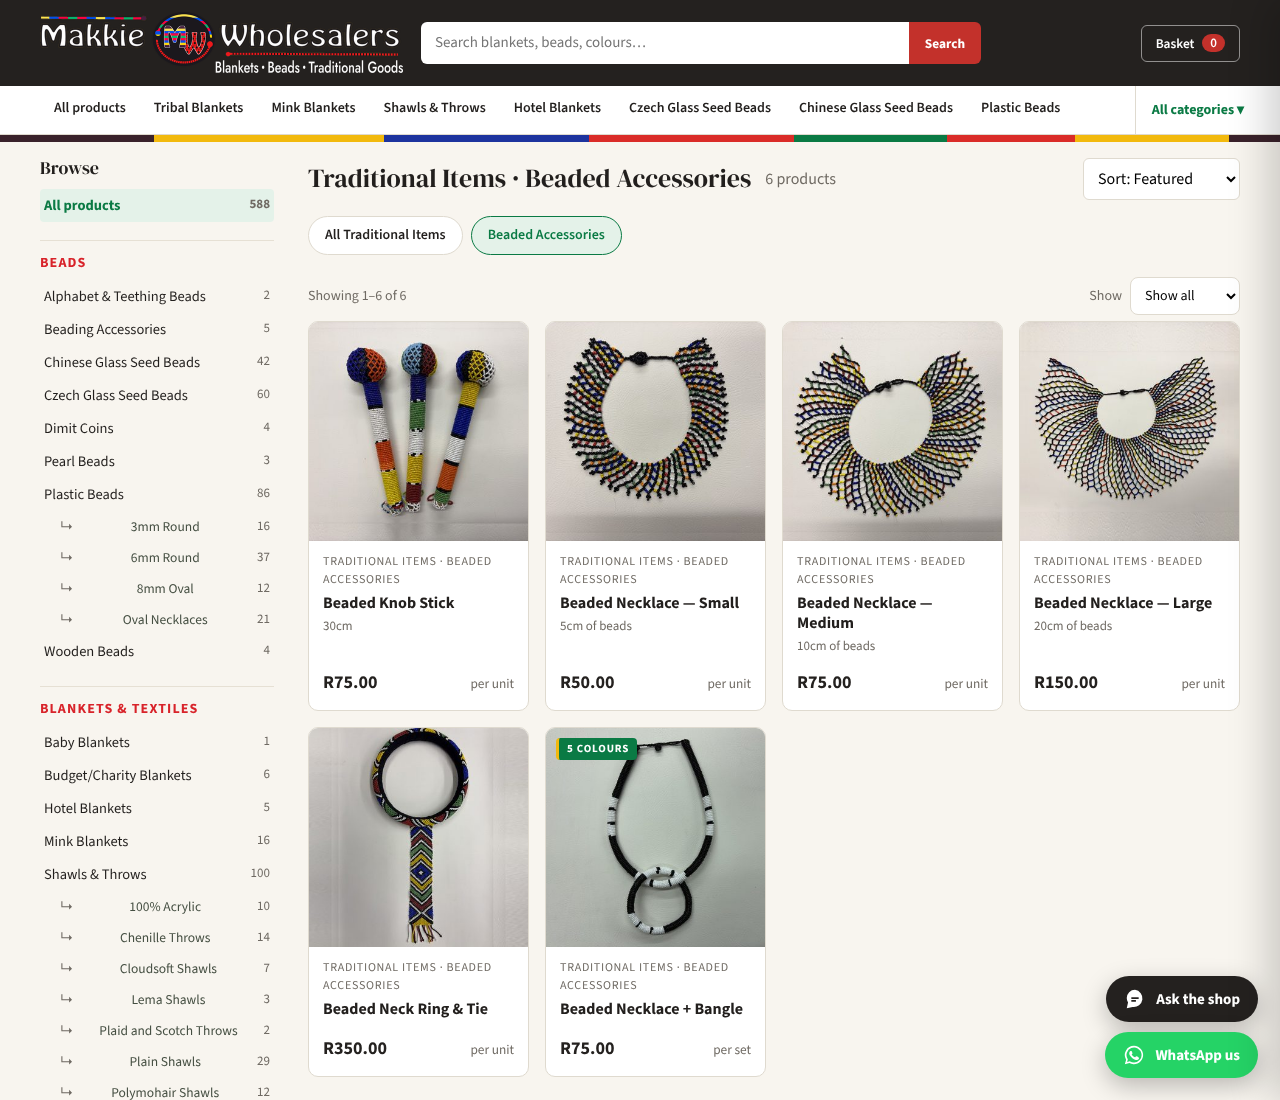
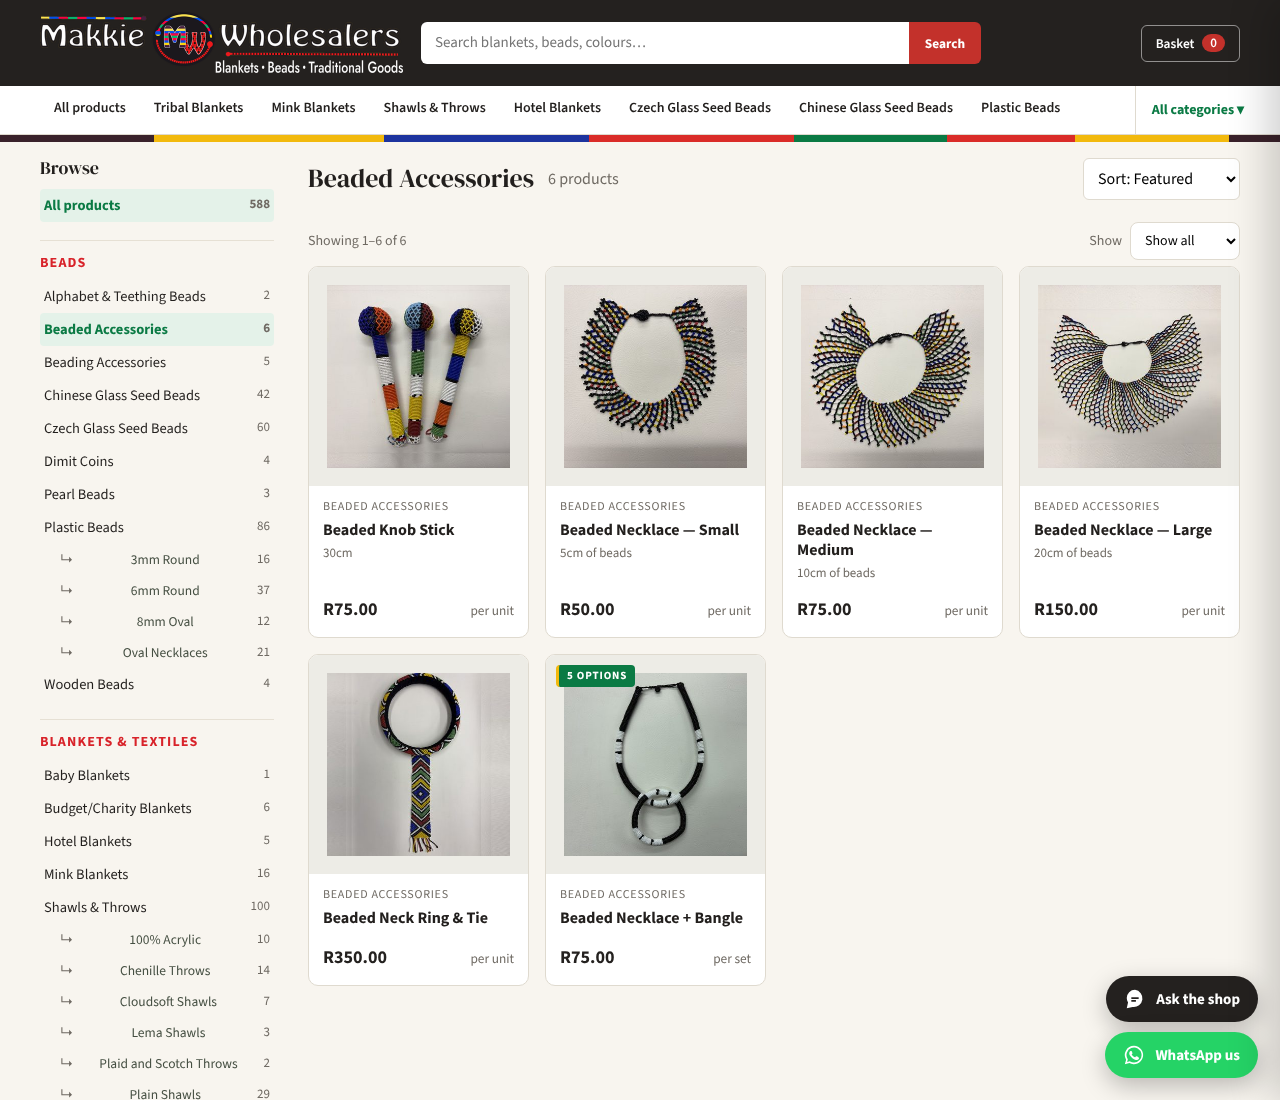
Beaded Accessories moved under Beads (waiting for upload)
Claude-Session: https://claude.ai/code/session_01FrAdmZhbnvV2Pi8Ea2YxmY

Changed region(s): [[0.2188, 0.1545, 0.9688, 0.9582], [0.0312, 0.2782, 0.2188, 1.0], [0.8125, 0.6182, 0.875, 0.6491]]

diff --git a/marketing/website/patch-catalogue-edits.py b/marketing/website/patch-catalogue-edits.py
@@ -91,17 +91,17 @@ for pid in [m for m in MATSEKA if m in by and by[m]["category"] != "Bangles"]:
 for pid in [d for d in ("TRD-005", "TRD-006", "TRD-007", "TRD-008") if d in by and by[d]["category"] != "Dimit Coins"]:
     by[pid].update(category="Dimit Coins", group="Beads"); P.remove(by[pid])   # dimit coins: own category under Beads
     last = max(i for i, x in enumerate(P) if x["group"] == "Beads"); P.insert(last + 1, by[pid])
-for pid in ("TRD-009", "TRD-010", "TRD-011", "TRD-012", "TRD-023", "TRD-031"):   # beaded traditional items
-    if pid in by: by[pid]["category"] = "Traditional Items · Beaded Accessories"
+for pid in [b for b in ("TRD-009", "TRD-010", "TRD-011", "TRD-012", "TRD-023", "TRD-031")   # beaded items -> Beads · Beaded Accessories
+            if b in by and by[b]["category"] != "Beaded Accessories"]:
+    by[pid].update(category="Beaded Accessories", group="Beads"); P.remove(by[pid])
+    last = max(i for i, x in enumerate(P) if x["group"] == "Beads"); P.insert(last + 1, by[pid])
 for x in P:
     pr = [v["price"] for v in x["variants"]]; x["minPrice"], x["maxPrice"] = min(pr), max(pr)
 
 h = h[:s] + json.dumps(P, ensure_ascii=False, separators=(",", ":")) + h[s + end:]
 if "'Berets \\u00b7 Plain Berets'" not in h:                          # delivery weight for the new subcategory
     h = h.replace("'Berets \\u00b7 Lamberets': 0.3,", "'Berets \\u00b7 Lamberets': 0.3, 'Berets \\u00b7 Plain Berets': 0.3,", 1)
-if "'Traditional Items \\u00b7 Beaded Accessories'" not in h:
-    h = h.replace("'Traditional Items': 0.5,", "'Traditional Items': 0.5, 'Traditional Items \\u00b7 Beaded Accessories': 0.4,", 1)
 if "'Dimit Coins'" not in h:
-    h = h.replace("'Beading Accessories': 0.2,", "'Beading Accessories': 0.2, 'Dimit Coins': 0.2,", 1)
+    h = h.replace("'Beading Accessories': 0.2,", "'Beading Accessories': 0.2, 'Dimit Coins': 0.2, 'Beaded Accessories': 0.4,", 1)
 open(p, "w", encoding="utf-8").write(h)
 print("patched", p, "-", len(P), "products")

diff --git a/marketing/website/UPLOAD-NEXT.md b/marketing/website/UPLOAD-NEXT.md
@@ -3,7 +3,7 @@
 **Waiting for "upload"**: painted axe colours renamed (Ndebele Stripe / Blue & Pink / Black & Red), Mapoto apron photo
 flipped (same file name, new picture), Shell Belt Set described as a 2-piece set (65cm & 35cm),
 beaded necklace sizes (5cm of beads, kids size / 10cm / 20cm), the 7 matseka bangles and 2 matseka leg rings moved to Bangles, dimit coins in their own "Dimit Coins" category under Beads,
-"Traditional Items · Beaded Accessories" subcategory (knob stick, 3 necklaces, neck ring & tie, necklace + bangle).
+"Beaded Accessories" category under Beads (knob stick, 3 necklaces, neck ring & tie, necklace + bangle).
 
 Last upload: 20 Oct 2026 (deploy 6ad764fa39bc0f176a6d826a): Traditional Items category (33 products),
 animal print berets, Colibri towels in 3 colours, bangles single/6-pack, whistle sizes swapped, Plain Berets with ZCC first.
